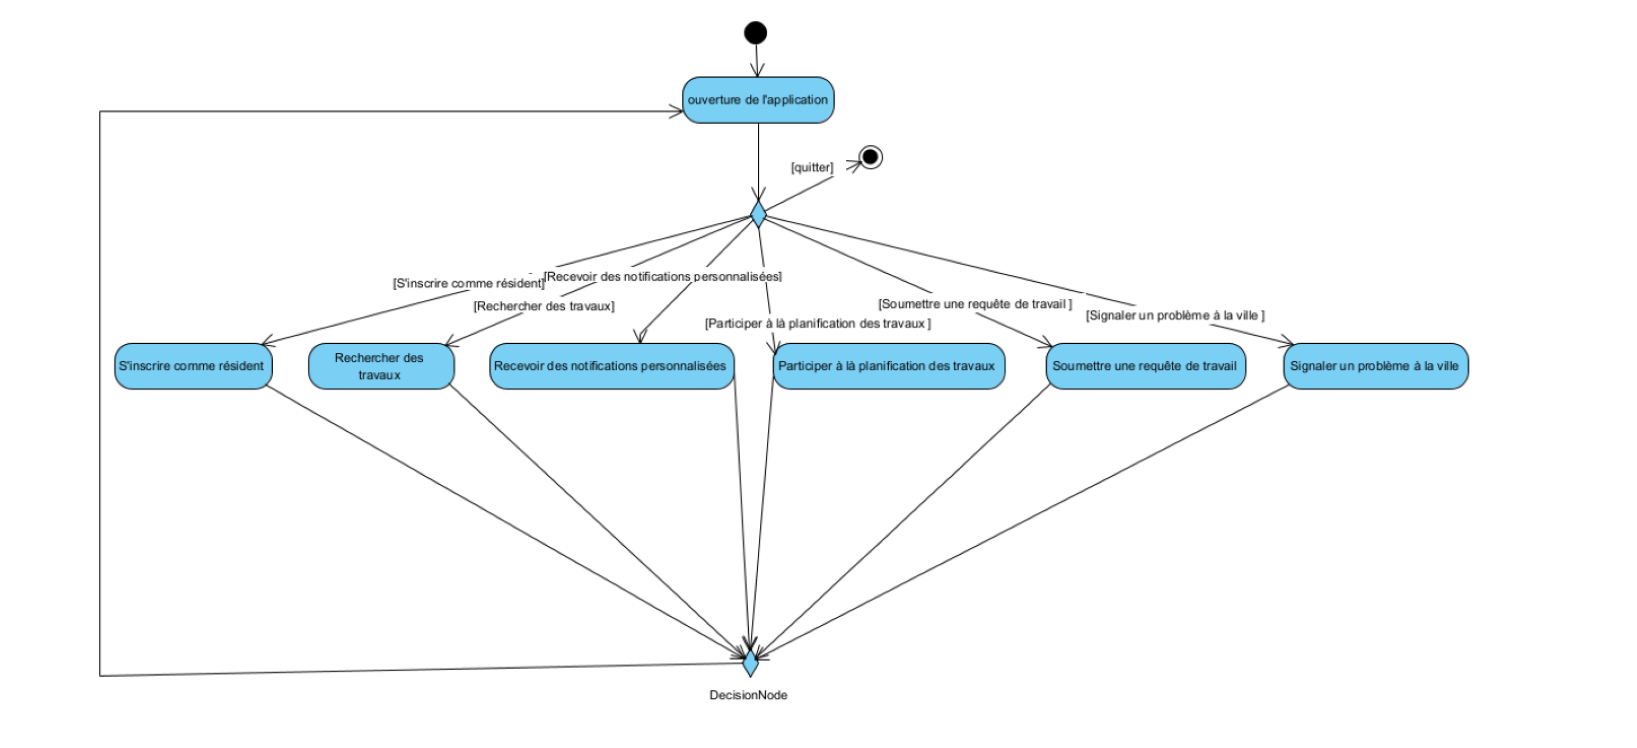
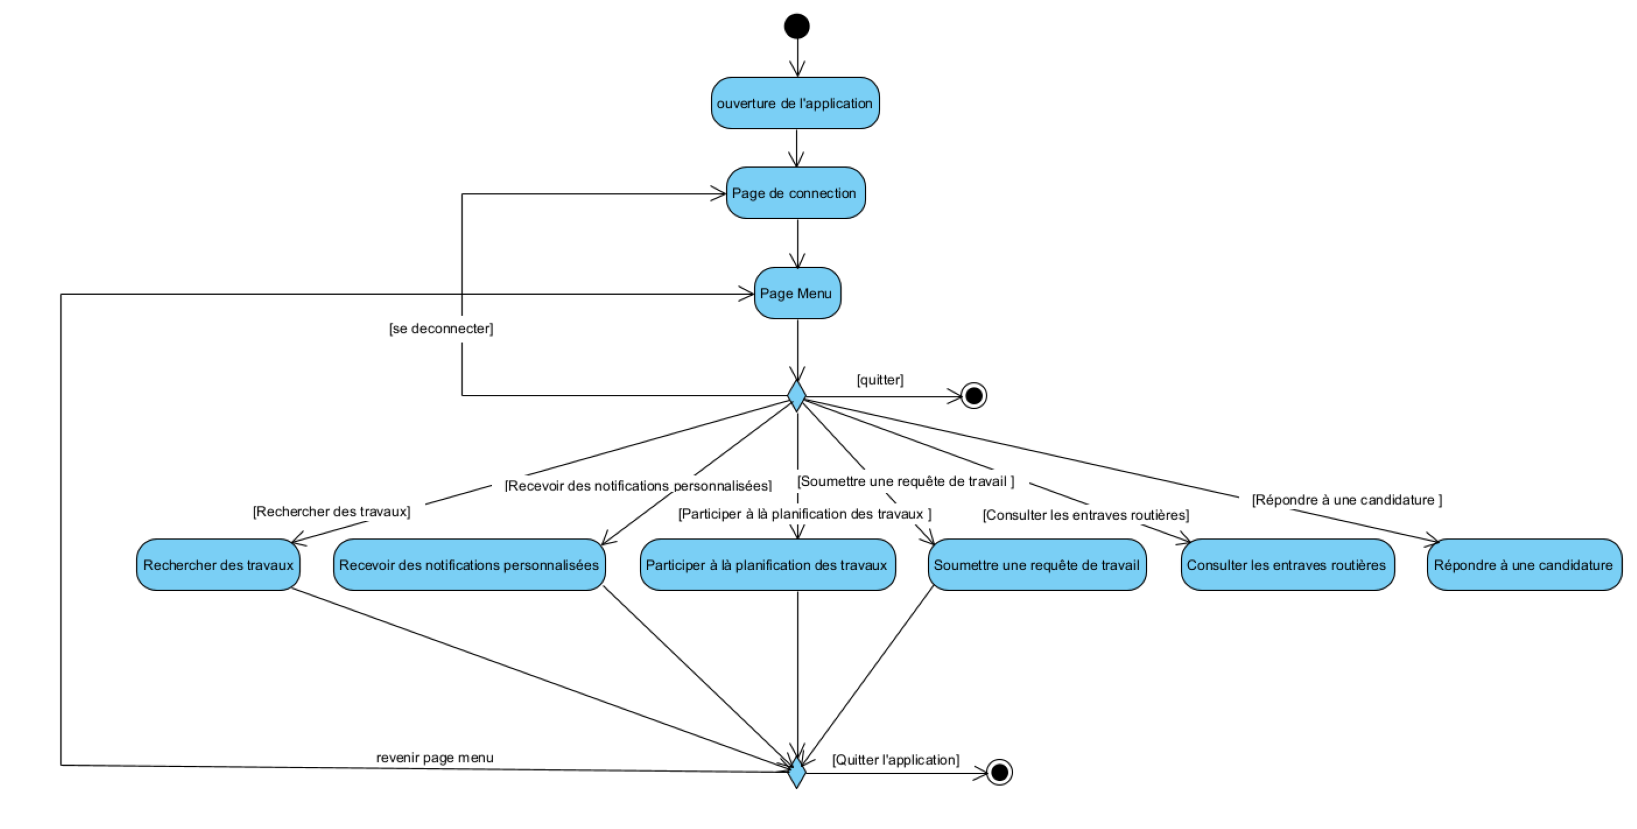
changement glossaire, diagramme d'activite
ajout des diagramme d activite Candidature,interface et Recherche entrave
changement du glossaire

diff --git a/Rapport/Projet46.html b/Rapport/Projet46.html
@@ -759,13 +759,13 @@
                     <dt class="glossary-term">Soumission de requête</dt>
                     <dd class="glossary-def">Action de signaler un besoin de travaux ou un problème à la ville.</dd>
                     <dt class="glossary-term">Notification</dt>
-                    <dd class="glossary-def">Alerte envoyée aux utilisateurs concernant des changements ou des nouvelles.</dd>
+                    <dd class="glossary-def">Alerte envoyée aux utilisateurs concernant des changements ou des nouvelles. Types de notifications : notifications de changements de projets, de nouveaux projets, de retards ou d'annulations, ou de nouvelles entraves.</dd>
                     <dt class="glossary-term">Infos techniques</dt>
                     <dd class="glossary-def">Détails sur l'architecture, la sécurité et les fonctionnalités de l'application.</dd>
                     <dt class="glossary-term">Informations personnelles</dt>
                     <dd class="glossary-def">Données des utilisateurs, telles que nom, adresse et contact.</dd>
                     <dt class="glossary-term">Types de travaux</dt>
-                    <dd class="glossary-def">Catégories d'interventions (ex. routiers, construction, entretien).</dd>
+                    <dd class="glossary-def">Catégories d'interventions : travaux routiers, travaux de gaz ou électricité, construction ou rénovation, entretien paysager, travaux liés aux transports en commun, travaux de signalisation et éclairage, travaux souterrains, travaux résidentiels, entretien urbain, entretien des réseaux de télécommunication.</dd>
                     <dt class="glossary-term">Information de projet</dt>
                     <dd class="glossary-def">Détails spécifiques sur chaque projet de travaux.</dd>
                     <dt class="glossary-term">S'inscrire comme résident</dt>
@@ -773,9 +773,9 @@
                     <dt class="glossary-term">Consulter les travaux en cours ou à venir</dt>
                     <dd class="glossary-def">Fonctionnalité permettant aux utilisateurs de voir les projets en cours et prévus.</dd>
                     <dt class="glossary-term">Recherche de travaux</dt>
-                    <dd class="glossary-def">Outil pour trouver des projets par mots-clés ou filtres.</dd>
+                    <dd class="glossary-def">Outil pour trouver des projets par mots-clés ou filtres (type de travaux, quartier, rue).</dd>
                     <dt class="glossary-term">Recevoir des notifications</dt>
-                    <dd class="glossary-def">Fonction pour alerter les utilisateurs sur des informations pertinentes.</dd>
+                    <dd class="glossary-def">Fonction pour alerter les utilisateurs sur des informations pertinentes (modifications de projets, nouvelles entraves, etc.).</dd>
                     <dt class="glossary-term">Soumettre requête de travail</dt>
                     <dd class="glossary-def">Action de demander la réalisation de travaux spécifiques.</dd>
                     <dt class="glossary-term">Permettre une planification participative</dt>
@@ -790,8 +790,8 @@
                     <dd class="glossary-def">Action de proposer un projet de travaux à la ville.</dd>
                     <dt class="glossary-term">Mettre à jour les informations d'un chantier</dt>
                     <dd class="glossary-def">Modifier les détails d’un projet en cours via l'application.</dd>
-
                 </dl>
+
   
                 <h3 class="subsection-title">Cas d'utilisation</h3>
                 <div class="use-case">
@@ -986,7 +986,8 @@
                         <h5 class="scenario-main-title">Scénario principal</h5>
                         <ol class="scenario-main-steps">
                             <li class="scenario-main-step">Le résident sélectionne l'option "Consulter les entraves routières".</li>
-                            <li class="scenario-main-step">Le système redirige le résident vers la page des entraves routières.</li>                        
+                            <li class="scenario-main-step">Le système redirige le résident vers la page des entraves routières.</li> 
+                            <li class="scenario-main-step">Le résident fait une recherche.</li>                     
                             <li class="scenario-main-step">Le résident voit des options de filtrage (par travail spécifique ou par rue).</li>
                             <li class="scenario-main-step">Le résident applique les filtres selon son besoin.</li>
                             <li class="scenario-main-step">Le système affiche la liste des entraves correspondantes.</li>
@@ -1267,8 +1268,7 @@
                                 <li class="scenario-alt-step" value="2">
                                     Aucune candidature.
                                     <ol class="bare-list">
-                                        <li value="2">le système affiche un message informant le résident qu'il n'y a pas de candidatures.</li>
-                                        <li value="2">Le résident corrige les erreurs et soumet à nouveau la requête.</li>
+                                        <li value="2">le système affiche un message informant le résident qu'il n'y a pas de candidatures.</li>                                  
                                     </ol>
                                 </li>
                             </ol>
@@ -1622,6 +1622,14 @@
                 <div class="activity">
                     <h4>Ouverture application </h4>
                     <img class="activity-diagram" src="images/interface.png" alt="Diagramme d'activités">
+                </div>
+                <div class="activity">
+                    <h4>Répondre à une candidature </h4>
+                    <img class="activity-diagram" src="images/Candidature.png" alt="Diagramme d'activités">
+                </div>
+                <div class="activity">
+                    <h4>Consulter les entraves routières  </h4>
+                    <img class="activity-diagram" src="images/RechercheEntrave.png" alt="Diagramme d'activités">
                 </div>
                 <div class="activity">
                     <h4>S'inscrire comme résident </h4>
